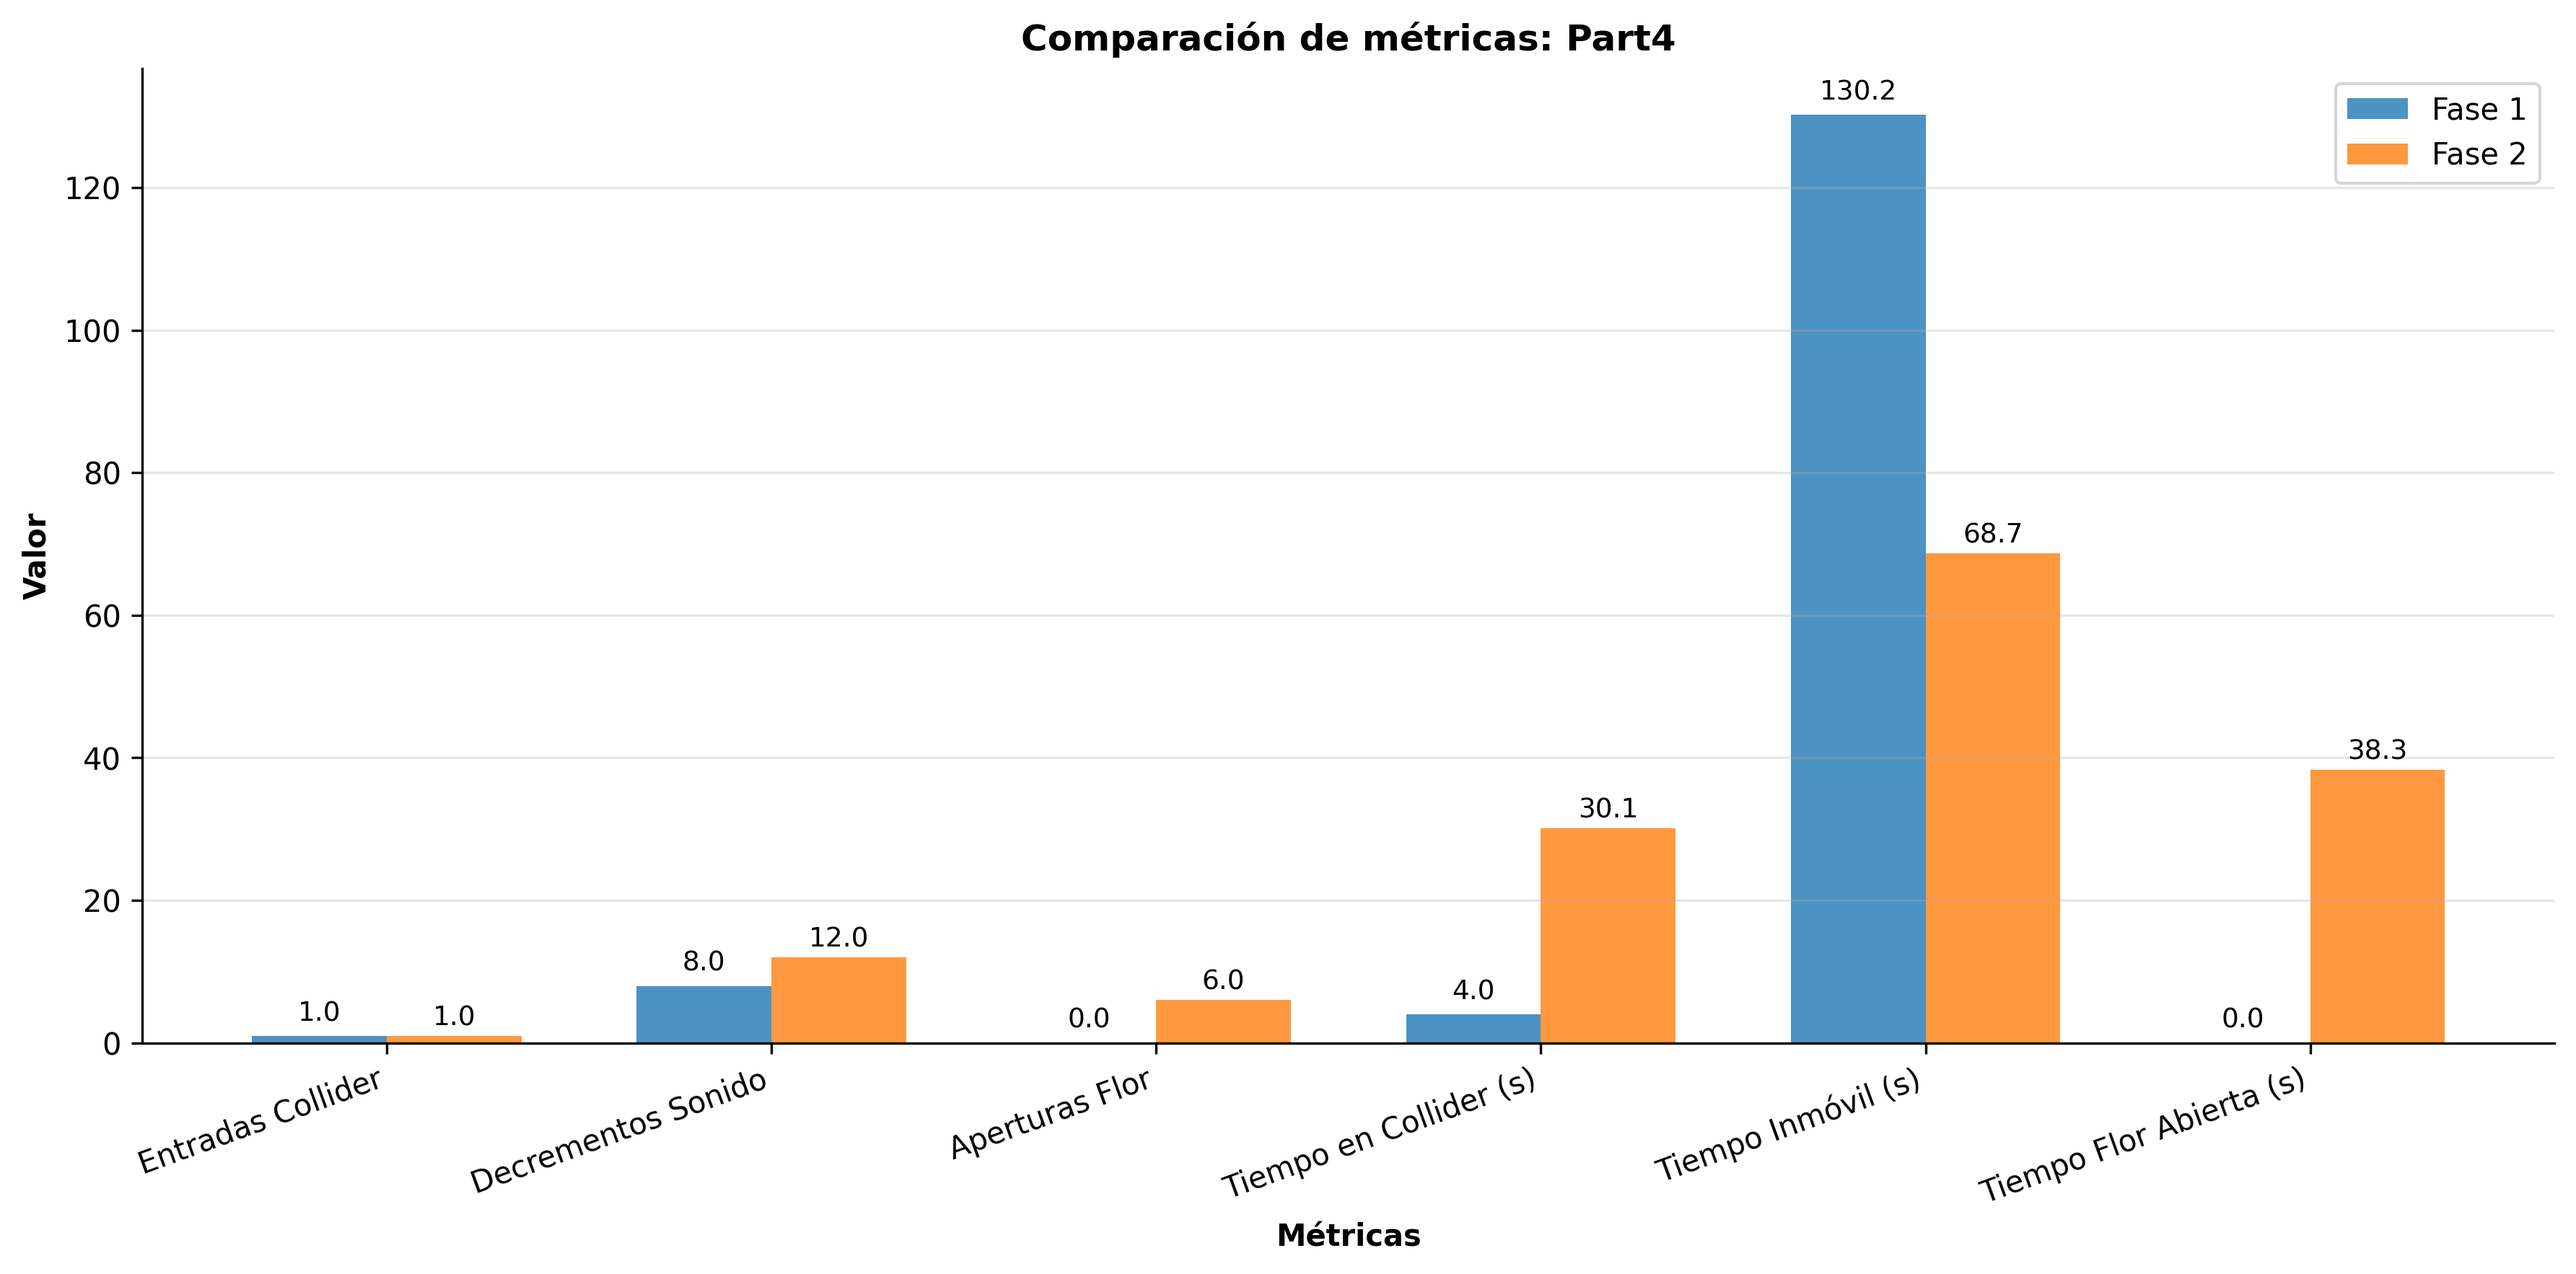
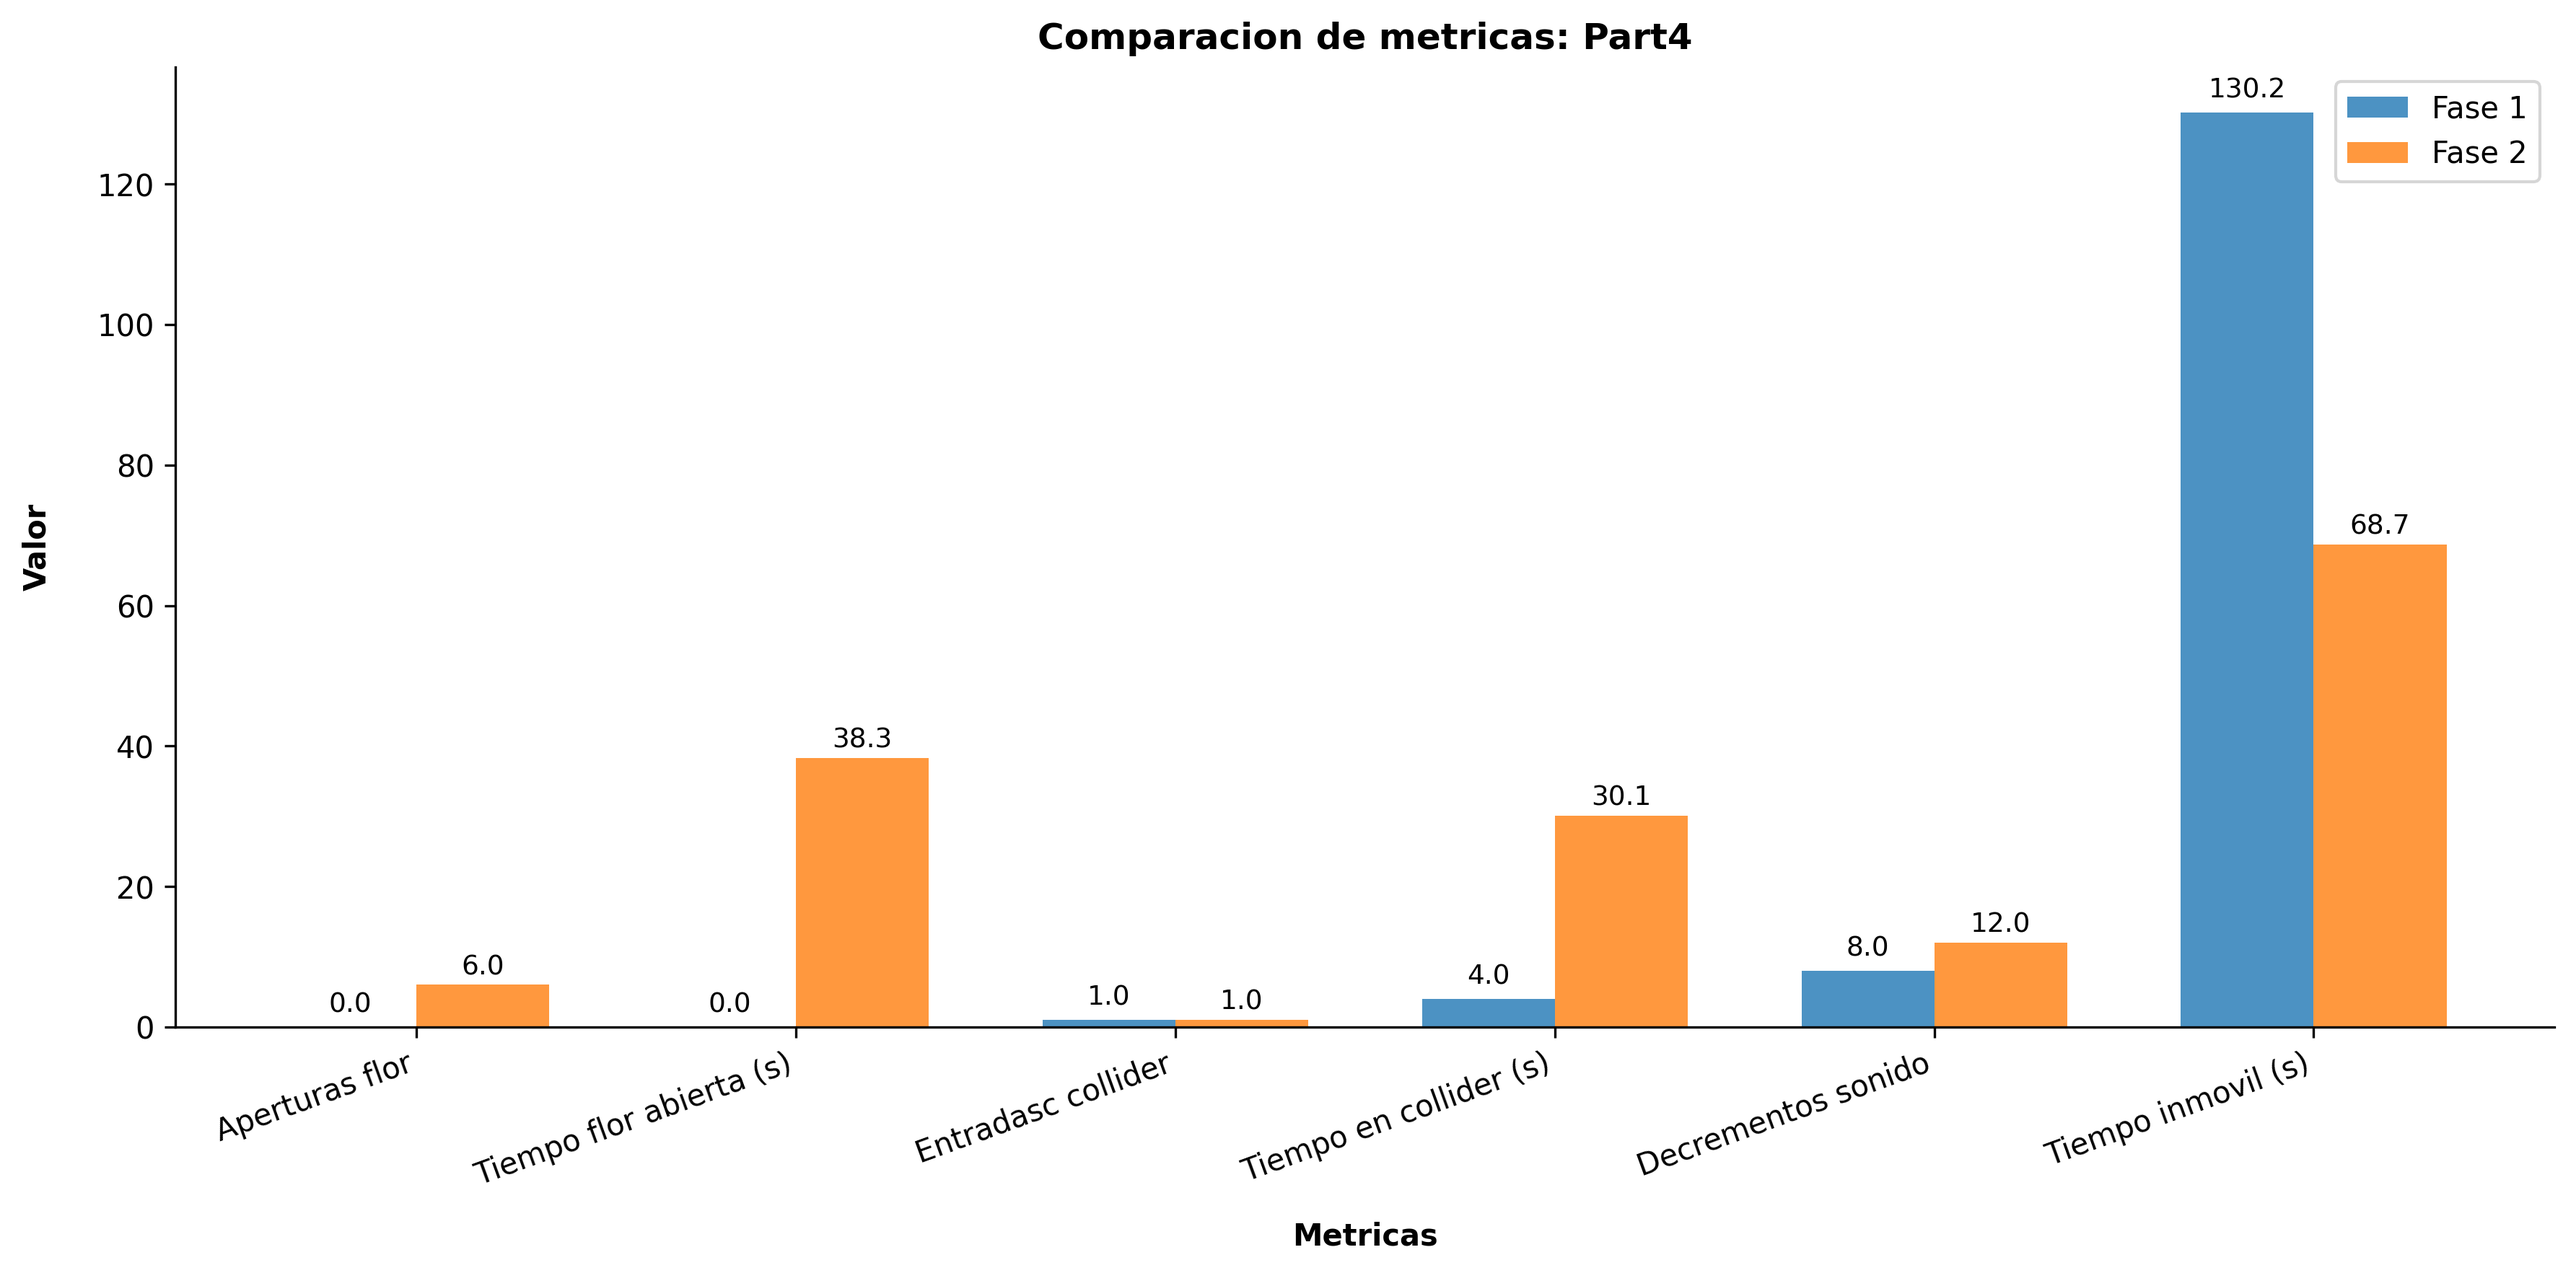
Ajustes en graficos metricas

diff --git a/Metricas/graficos_individuales.py b/Metricas/graficos_individuales.py
@@ -4,12 +4,12 @@ from procesar_metricas import process_all_files
 
 # Labels for plotting
 METRIC_LABELS = {
-    "collider_entries": "Entradas Collider",
-    "sound_decrements": "Decrementos Sonido",
-    "flower_openings": "Aperturas Flor",
-    "time_in_collider": "Tiempo en Collider (s)",
-    "time_stationary": "Tiempo Inmóvil (s)",
-    "time_flower_open": "Tiempo Flor Abierta (s)"
+    "collider_entries": "Entradasc collider",
+    "sound_decrements": "Decrementos sonido",
+    "flower_openings": "Aperturas flor",
+    "time_in_collider": "Tiempo en collider (s)",
+    "time_stationary": "Tiempo inmovil (s)",
+    "time_flower_open": "Tiempo flor abierta (s)"
 }
 
 def ensure_output_dir():
@@ -20,7 +20,14 @@ def ensure_output_dir():
 
 def plot_person_comparison(person, phases, output_dir):
     """Generate a comparison chart for one person's metrics between phases"""
-    metrics = list(METRIC_LABELS.keys())
+    metrics = [
+        "flower_openings",
+        "time_flower_open",
+        "collider_entries",
+        "time_in_collider",
+        "sound_decrements",
+        "time_stationary",
+    ]
     labels = [METRIC_LABELS[m] for m in metrics]
     fase1 = [phases.get("Fase1", {}).get(m, 0) for m in metrics]
     fase2 = [phases.get("Fase2", {}).get(m, 0) for m in metrics]
@@ -46,11 +53,11 @@ def plot_person_comparison(person, phases, output_dir):
     
     ax.set_xticks(x)
     ax.set_xticklabels(labels, rotation=20, ha='right')
-    ax.set_xlabel("Métricas", fontweight='bold')
-    ax.set_ylabel("Valor", fontweight='bold')
-    ax.set_title(f"Comparación de métricas: {person.capitalize()}", fontweight='bold')
+    ax.set_xlabel("Metricas", fontweight='bold', labelpad=10)
+    ax.set_ylabel("Valor", fontweight='bold', labelpad=15)
+    ax.set_title(f"Comparacion de metricas: {person.capitalize()}", fontweight='bold')
     ax.legend()
-    ax.grid(axis='y', alpha=0.3)
+    #ax.grid(axis='y', alpha=0.3)
     ax.spines['top'].set_visible(False)
     ax.spines['right'].set_visible(False)
     plt.tight_layout()
@@ -61,20 +68,20 @@ def plot_person_comparison(person, phases, output_dir):
     filepath = os.path.join(output_dir, filename)
     plt.savefig(filepath, bbox_inches='tight', dpi=300)
     plt.close(fig)
-    print(f'Gráfico guardado: {filepath}')
+    #print(f'Grafico guardado: {filepath}')
 
 def generate_all_graphs():
     """Generate comparison graphs for all persons"""
     # Import data from the processing script
     person_results = process_all_files()
     
-    print("Generando gráficos individuales...")
+    print("Generando graficos individuales...")
     
     # Create output directory
     output_dir = ensure_output_dir()
     
     for person, phases in person_results.items():
-        print(f"Generando gráfico para: {person.capitalize()}")
+        #print(f"Generando grafico para: {person.capitalize()}")
         plot_person_comparison(person, phases, output_dir)
 
 def main():
@@ -82,9 +89,9 @@ def main():
     try:
         generate_all_graphs()
         output_dir = ensure_output_dir()
-        print(f"¡Todos los gráficos han sido generados en {output_dir}!")
+        print(f"¡Todos los graficos han sido generados en {output_dir}!")
     except Exception as e:
-        print(f"Error al generar los gráficos: {e}")
+        print(f"Error al generar los graficos: {e}")
 
 if __name__ == "__main__":
     main() 

diff --git a/Metricas/graficos_grupo.py b/Metricas/graficos_grupo.py
@@ -45,13 +45,14 @@ def plot_grouped_bar_chart(participants, phases, values, metric_name, metric_key
             ax.text(rect.get_x() + rect.get_width()/2, rect.get_height() + max(values[phase])*0.02,
                     f'{val:.2f}', ha='center', va='bottom', fontsize=9)
 
-    ax.set_xlabel('Participante', fontsize=12, fontweight='bold')
-    ax.set_ylabel('Valor', fontsize=12, fontweight='bold')
-    ax.set_title(f'Comparación por Participante: {metric_name}', fontsize=14, fontweight='bold', pad=20)
+    ax.set_xlabel('Participante', fontsize=12, fontweight='bold', labelpad=15)
+    ax.set_ylabel('Valor', fontsize=12, fontweight='bold', labelpad=15)
+    metric_name = metric_name.replace('Metrica ', '').capitalize()
+    ax.set_title(metric_name, fontsize=14, fontweight='bold', pad=20)
     ax.set_xticks(x)
     ax.set_xticklabels(participants, rotation=30, ha='right', fontsize=11)
     ax.legend(title='Fase')
-    ax.grid(axis='y', alpha=0.3, linestyle='--')
+    #ax.grid(axis='y', alpha=0.3, linestyle='--')
     ax.spines['top'].set_visible(False)
     ax.spines['right'].set_visible(False)
     plt.tight_layout()
@@ -60,9 +61,9 @@ def plot_grouped_bar_chart(participants, phases, values, metric_name, metric_key
     safe_metric_name = metric_key.replace(' ', '_')
     filename = f'{safe_metric_name}_grupo.png'
     filepath = os.path.join(output_dir, filename)
-    plt.savefig(filepath, bbox_inches='tight')
+    plt.savefig(filepath, bbox_inches='tight', dpi=300)
     plt.close(fig)
-    print(f'Gráfico guardado: {filepath}')
+    #print(f'Gráfico guardado: {filepath}')
 
 def main():
     print('Generando gráficos de barras agrupadas por participante...')
